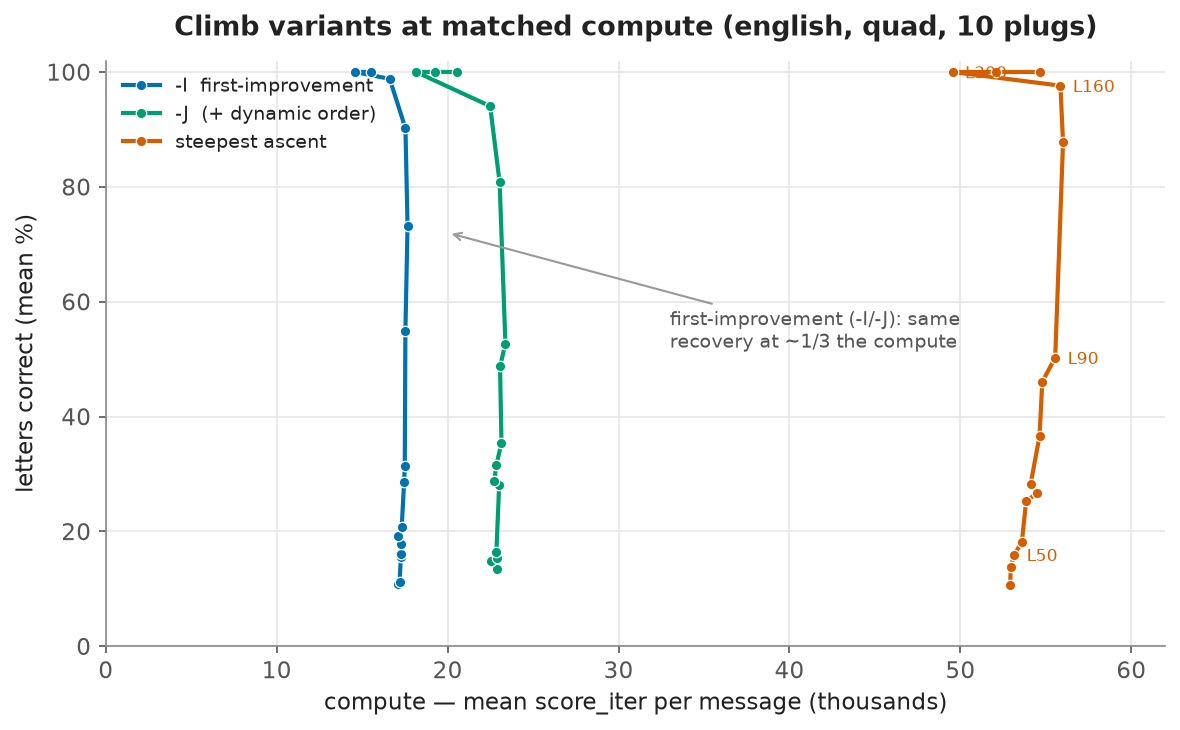
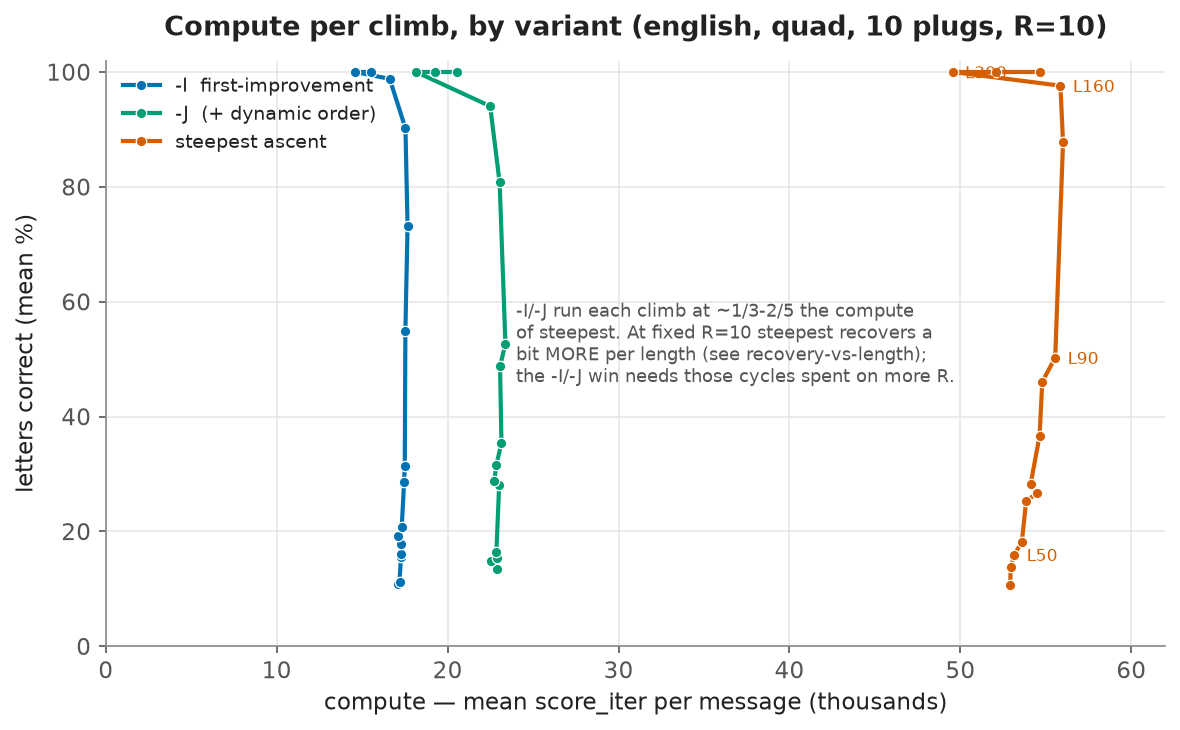
Add recovery-vs-length climb-variant plot; correct the compute plot framing
The earlier compute plot's "same recovery at ~1/3 the compute" annotation was
misleading: at a fixed length the variants do NOT match. Add
climb_variants_recovery.png (mean %-correct vs length, english) which shows the
honest picture -- at matched R=10, steepest ascent recovers the MOST per length
(clearest L120-160), then -J, then -I; they only converge at L40-90 and L200+.
So steepest wins per-length at fixed restarts because it does more work per
climb; the -I/-J advantage is a matched-COMPUTE claim (spend the saved cycles on
more restarts), not demonstrated by this R=10 data. Retitled the compute plot
and replaced its annotation to say this.

Claude-Session: https://claude.ai/code/session_014GftopEhYTR7xamwfhnPqt

diff --git a/eval/plot_results.py b/eval/plot_results.py
@@ -157,16 +157,26 @@ for clabel, cfg, color, labelpts in [
                             textcoords="offset points", color=color, fontsize=8)
 ax.set_xlabel("compute — mean score_iter per message (thousands)")
 ax.set_ylabel("letters correct (mean %)")
-ax.set_title("Climb variants at matched compute (english, quad, 10 plugs)",
+ax.set_title("Compute per climb, by variant (english, quad, 10 plugs, R=10)",
              fontsize=13, fontweight="bold", pad=12)
 ax.set_ylim(0, 102); ax.set_xlim(0, 62)
 ax.legend(frameon=False, loc="upper left", fontsize=9)
-ax.annotate("first-improvement (-I/-J): same\nrecovery at ~1/3 the compute",
-            (20, 72), (33, 52), textcoords="data", fontsize=9, color="#555555",
-            arrowprops=dict(arrowstyle="->", color="#999999"))
+ax.annotate("-I/-J run each climb at ~1/3-2/5 the compute\nof steepest. At fixed R=10 steepest recovers a\nbit MORE per length (see recovery-vs-length);\nthe -I/-J win needs those cycles spent on more R.",
+            (24, 46), textcoords="data", fontsize=8.5, color="#555555")
 fig.tight_layout()
 fig.savefig(os.path.join(OUT, "greedy_vs_steepest_compute.png"), bbox_inches="tight", facecolor="white")
 plt.close(fig)
 print("wrote greedy_vs_steepest_compute.png")
+
+# 7. climb variants: recovery vs length (english), ignoring compute
+line_chart(
+    [("-I  first-improvement", "#0072B2",
+      *curve(lambda r: r["config_label"] == FI and r["language"] == "english", lambda r: r["pct"])),
+     ("-J  (+ dynamic order)", "#009E73",
+      *curve(lambda r: r["config_label"] == GREEDY and r["language"] == "english", lambda r: r["pct"])),
+     ("steepest ascent", "#D55E00",
+      *curve(lambda r: r["config_label"] == STEEP and r["language"] == "english", lambda r: r["pct"]))],
+    "Climb variants: recovery vs length (english, quad, 10 plugs, R=10)",
+    "letters correct (mean %)", "climb_variants_recovery.png")
 
 print("done ->", OUT)
